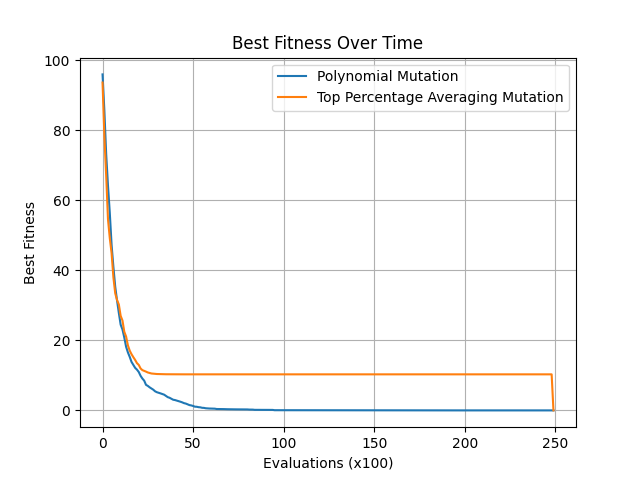
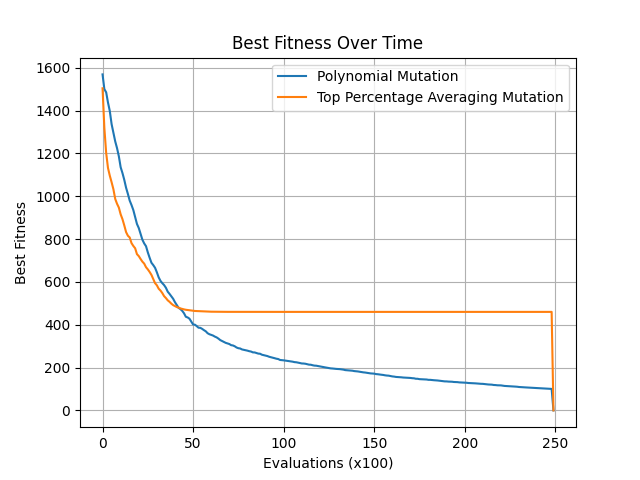
Comments + initial catalog structure

diff --git a/topsis_test.py b/topsis_test.py
@@ -1,40 +1,57 @@
-import sys
 import numpy as np
 import matplotlib.pyplot as plt
 from jmetal.algorithm.singleobjective import GeneticAlgorithm
 from jmetal.operator import SBXCrossover, PolynomialMutation, BinaryTournamentSelection
 from jmetal.problem.singleobjective.unconstrained import Rastrigin
 from jmetal.util.termination_criterion import StoppingByEvaluations
-from typing import List
 from jmetal.core.solution import FloatSolution
-from jmetal.core.operator import Mutation
 
 
 class TopPercentageAveragingMutation(PolynomialMutation):
-
+    """
+    TopPercentageAveragingMutation to klasa mutacji, która dziedziczy po PolynomialMutation.
+    Implementuje mutację opartą na średniej wartości topowych osobników populacji.
+    """
     def __init__(self, probability: float, top_percentage: float, push_strength: float, population=None):
+        # Wywołanie konstruktora klasy bazowej
         super(TopPercentageAveragingMutation, self).__init__(probability=probability)
-        self.top_percentage = top_percentage
-        self.push_strength = push_strength
-        self.population = population or []
+        self.top_percentage = top_percentage  # Procent najlepszych osobników do uśrednienia
+        self.push_strength = push_strength    # Współczynnik określający siłę przyciągania do uśrednionego topowego osobnika
+        self.population = population or []    # Populacja osobników
 
     def execute(self, solution: FloatSolution) -> FloatSolution:
+        """
+        Funkcja wykonująca mutację.
+        """
+        # Posortowanie populacji według wartości funkcji celu
         sorted_population = sorted(self.population, key=lambda x: x.objectives[0])
+
+        # Obliczenie liczby najlepszych osobników do uśrednienia
         num_top_individuals = int(len(sorted_population) * self.top_percentage)
-        # Ensure at least one individual is selected
+        
+        # Zapewniamy, że zostanie wybrany co najmniej jeden osobnik
         num_top_individuals = max(num_top_individuals, 1)
+
+        # Wybranie topowych osobników
         top_individuals = sorted_population[:num_top_individuals]
+
+        # Inicjalizacja listy przechowującej uśrednionego osobnika
         average_individual = [0.0] * solution.number_of_variables
+
+        # Sumowanie wartości zmiennych topowych osobników
         for individual in top_individuals:
             for i in range(solution.number_of_variables):
                 average_individual[i] += individual.variables[i]
+        # Obliczenie wartości uśrednionego topowego osobnika
         for i in range(solution.number_of_variables):
             average_individual[i] /= num_top_individuals
 
+        # Przesunięcie wartości zmiennych mutowanego osobnika w kierunku uśrednionego osobnika
         for i in range(solution.number_of_variables):
             difference = average_individual[i] - solution.variables[i]
             solution.variables[i] += self.push_strength * difference
 
+            # Sprawdzenie, czy nowa wartość zmiennej nie przekracza granic
             if solution.variables[i] < solution.lower_bound[i]:
                 solution.variables[i] = solution.lower_bound[i]
             if solution.variables[i] > solution.upper_bound[i]:
@@ -43,6 +60,9 @@ class TopPercentageAveragingMutation(PolynomialMutation):
         return solution
 
     def set_mutation_population(self, population):
+        """
+        Metoda do aktualizacji populacji dla obiektu mutacji.
+        """
         self.population = population
 
     def get_name(self):
@@ -52,17 +72,35 @@ class TopPercentageAveragingMutation(PolynomialMutation):
 class CustomGeneticAlgorithm(GeneticAlgorithm):
 
     def __init__(self, **kwargs):
+        """
+        Inicjalizacja obiektu CustomGeneticAlgorithm.
+
+        Args:
+            **kwargs: Argumenty przekazywane do konstruktora klasy nadrzędnej GeneticAlgorithm.
+        """
         super().__init__(**kwargs)
-        self.best_fitness_history = []
+        self.best_fitness_history = []  # Lista przechowująca historię najlepszych wartości przystosowania
 
     def replacement(self, population, offspring_population):
+        """
+        Metoda odpowiedzialna za zastępowanie starej populacji nową populacją potomków.
+
+        Args:
+            population: Stara populacja (lista obiektów FloatSolution).
+            offspring_population: Nowa populacja potomków (lista obiektów FloatSolution).
+
+        Returns:
+            new_population: Aktualizowana populacja (lista obiektów FloatSolution).
+        """
+        # Wywołanie metody z klasy nadrzędnej
         new_population = super().replacement(population, offspring_population)
 
+        # Rejestrowanie najlepszego rozwiązania co 100 ewaluacji
         if self.evaluations % 100 == 0:
             best_solution = min(new_population, key=lambda x: x.objectives[0])
             self.best_fitness_history.append(best_solution.objectives[0])
         
-        # Update the mutation population
+        # Aktualizacja populacji dla obiektu mutacji TopPercentageAveragingMutation
         if isinstance(self.mutation_operator, TopPercentageAveragingMutation):
             self.mutation_operator.population = new_population
 
@@ -86,7 +124,7 @@ if __name__ == "__main__":
     num_tests = int(input("Enter the number of tests to run: "))
 
     # Initialize the Rastrigin problem
-    problem = Rastrigin(number_of_variables=10)
+    problem = Rastrigin(number_of_variables=100)
 
     # Run the experiments
     poly_history_sum = np.zeros(250)
